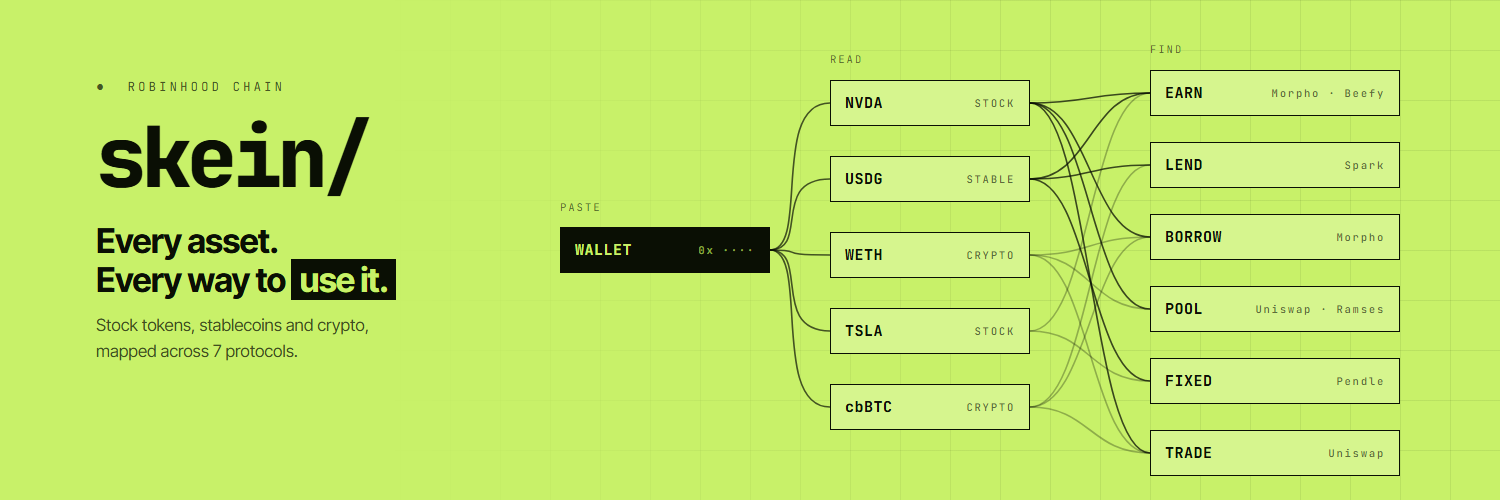
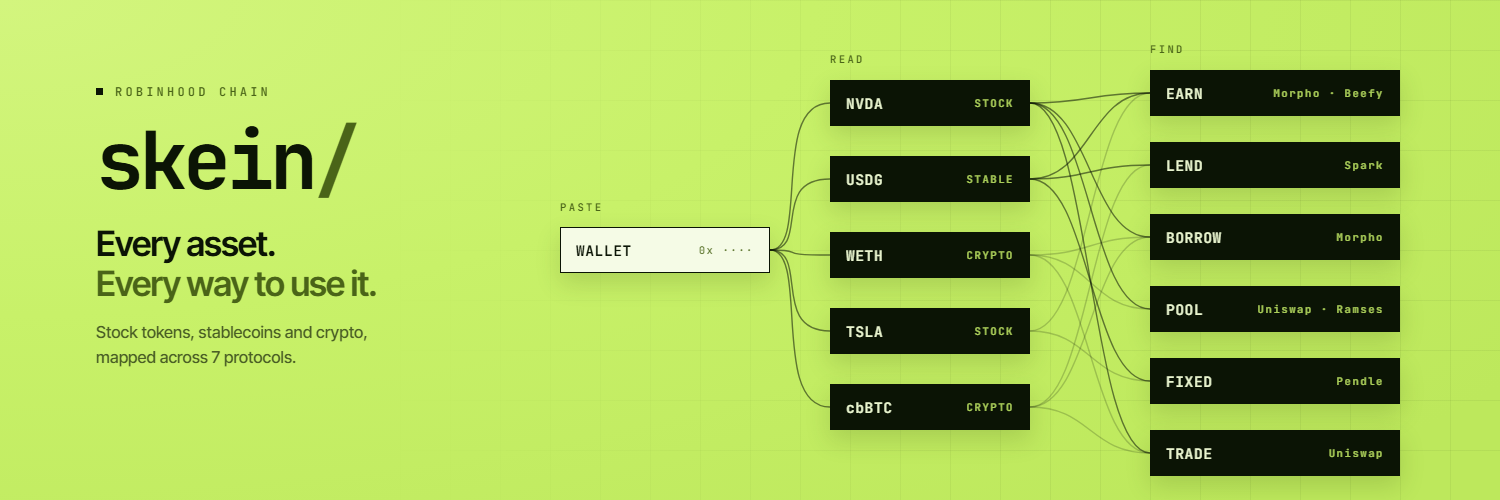
brand: softer lime X header (dark tiles, two tone headline, grayscale text, 2x export)

diff --git a/brand/twitter/header-map-lime.html b/brand/twitter/header-map-lime.html
@@ -6,19 +6,20 @@ html,body{overflow:hidden;background:#060706;color:#DFE4DC;font-family:I}
 .m{font-family:M} .l{color:#C8F169} .mu{color:#8D948A} .fa{color:#5A6158}
 .grid{position:absolute;inset:0;background-image:linear-gradient(#11150F 1px,transparent 1px),linear-gradient(90deg,#11150F 1px,transparent 1px);background-size:50px 50px}
 </style></head><body style='width:1500px;height:500px'>
-<div style="position:relative;width:1500px;height:500px;background:#C8F169;color:#0A0F04">
- <div style="position:absolute;inset:0;background-image:linear-gradient(#0A0F0412 1px,transparent 1px),linear-gradient(90deg,#0A0F0412 1px,transparent 1px);background-size:50px 50px;-webkit-mask:linear-gradient(90deg,transparent 25%,#000 70%)"></div>
- <svg width=1500 height=500 style="position:absolute;inset:0" fill=none stroke-width=1.6><path d="M770 250 C 810 250, 770 103, 830 103" stroke="#0A0F04" stroke-opacity=".7"/><path d="M770 250 C 810 250, 770 179, 830 179" stroke="#0A0F04" stroke-opacity=".7"/><path d="M770 250 C 810 250, 770 255, 830 255" stroke="#0A0F04" stroke-opacity=".7"/><path d="M770 250 C 810 250, 770 331, 830 331" stroke="#0A0F04" stroke-opacity=".7"/><path d="M770 250 C 810 250, 770 407, 830 407" stroke="#0A0F04" stroke-opacity=".7"/><path d="M1030 103 C 1090 103, 1090 93, 1150 93" stroke="#0A0F04" stroke-opacity="0.75"/><path d="M1030 103 C 1090 103, 1090 237, 1150 237" stroke="#0A0F04" stroke-opacity="0.75"/><path d="M1030 103 C 1090 103, 1090 309, 1150 309" stroke="#0A0F04" stroke-opacity="0.75"/><path d="M1030 179 C 1090 179, 1090 165, 1150 165" stroke="#0A0F04" stroke-opacity="0.75"/><path d="M1030 179 C 1090 179, 1090 93, 1150 93" stroke="#0A0F04" stroke-opacity="0.75"/><path d="M1030 179 C 1090 179, 1090 381, 1150 381" stroke="#0A0F04" stroke-opacity="0.75"/><path d="M1030 255 C 1090 255, 1090 309, 1150 309" stroke="#0A0F04" stroke-opacity="0.3"/><path d="M1030 255 C 1090 255, 1090 237, 1150 237" stroke="#0A0F04" stroke-opacity="0.3"/><path d="M1030 255 C 1090 255, 1090 453, 1150 453" stroke="#0A0F04" stroke-opacity="0.3"/><path d="M1030 331 C 1090 331, 1090 381, 1150 381" stroke="#0A0F04" stroke-opacity="0.3"/><path d="M1030 331 C 1090 331, 1090 93, 1150 93" stroke="#0A0F04" stroke-opacity="0.3"/><path d="M1030 407 C 1090 407, 1090 237, 1150 237" stroke="#0A0F04" stroke-opacity="0.3"/><path d="M1030 407 C 1090 407, 1090 165, 1150 165" stroke="#0A0F04" stroke-opacity="0.3"/><path d="M1030 407 C 1090 407, 1090 453, 1150 453" stroke="#0A0F04" stroke-opacity="0.3"/><path d="M1030 103 C 1090 103, 1090 453, 1150 453" stroke="#0A0F04" stroke-opacity="0.75"/></svg>
- <div style="position:absolute;left:96px;top:78px;width:440px">
-  <div class=m style="font-size:12.5px;letter-spacing:3px;color:#0A0F04b0">●&nbsp; ROBINHOOD CHAIN</div>
-  <div class=m style="font-size:84px;font-weight:800;letter-spacing:-5px;line-height:1;margin-top:20px">skein/</div>
-  <div style="font-size:34px;font-weight:700;letter-spacing:-.8px;line-height:1.15;margin-top:22px">Every asset.<br>Every way to <span style="background:#0A0F04;color:#C8F169;padding:0 8px">use it.</span></div>
-  <div style="font-size:17px;line-height:1.5;margin-top:14px;color:#0A0F04b8">Stock tokens, stablecoins and crypto,<br>mapped across 7 protocols.</div>
+<style>body{-webkit-font-smoothing:antialiased;text-rendering:geometricPrecision}</style>
+<div style="position:relative;width:1500px;height:500px;background:radial-gradient(120% 140% at 0% 0%,#D3F57E,#C8F169 45%,#BDE85C);color:#0B1405">
+ <div style="position:absolute;inset:0;background-image:linear-gradient(#0B14050d 1px,transparent 1px),linear-gradient(90deg,#0B14050d 1px,transparent 1px);background-size:50px 50px;-webkit-mask:linear-gradient(90deg,transparent 25%,#000 70%)"></div>
+ <svg width=1500 height=500 style="position:absolute;inset:0" fill=none stroke-width=1.4 stroke-linecap=round><path d="M770 250 C 810 250, 770 103, 830 103" stroke="#0B1405" stroke-opacity=".55"/><path d="M770 250 C 810 250, 770 179, 830 179" stroke="#0B1405" stroke-opacity=".55"/><path d="M770 250 C 810 250, 770 255, 830 255" stroke="#0B1405" stroke-opacity=".55"/><path d="M770 250 C 810 250, 770 331, 830 331" stroke="#0B1405" stroke-opacity=".55"/><path d="M770 250 C 810 250, 770 407, 830 407" stroke="#0B1405" stroke-opacity=".55"/><path d="M1030 103 C 1090 103, 1090 93, 1150 93" stroke="#0B1405" stroke-opacity="0.55"/><path d="M1030 103 C 1090 103, 1090 237, 1150 237" stroke="#0B1405" stroke-opacity="0.55"/><path d="M1030 103 C 1090 103, 1090 309, 1150 309" stroke="#0B1405" stroke-opacity="0.55"/><path d="M1030 179 C 1090 179, 1090 165, 1150 165" stroke="#0B1405" stroke-opacity="0.55"/><path d="M1030 179 C 1090 179, 1090 93, 1150 93" stroke="#0B1405" stroke-opacity="0.55"/><path d="M1030 179 C 1090 179, 1090 381, 1150 381" stroke="#0B1405" stroke-opacity="0.55"/><path d="M1030 255 C 1090 255, 1090 309, 1150 309" stroke="#0B1405" stroke-opacity="0.2"/><path d="M1030 255 C 1090 255, 1090 237, 1150 237" stroke="#0B1405" stroke-opacity="0.2"/><path d="M1030 255 C 1090 255, 1090 453, 1150 453" stroke="#0B1405" stroke-opacity="0.2"/><path d="M1030 331 C 1090 331, 1090 381, 1150 381" stroke="#0B1405" stroke-opacity="0.2"/><path d="M1030 331 C 1090 331, 1090 93, 1150 93" stroke="#0B1405" stroke-opacity="0.2"/><path d="M1030 407 C 1090 407, 1090 237, 1150 237" stroke="#0B1405" stroke-opacity="0.2"/><path d="M1030 407 C 1090 407, 1090 165, 1150 165" stroke="#0B1405" stroke-opacity="0.2"/><path d="M1030 407 C 1090 407, 1090 453, 1150 453" stroke="#0B1405" stroke-opacity="0.2"/><path d="M1030 103 C 1090 103, 1090 453, 1150 453" stroke="#0B1405" stroke-opacity="0.55"/></svg>
+ <div style="position:absolute;left:96px;top:84px;width:440px">
+  <div class=m style="font-size:12px;letter-spacing:3.2px;font-weight:500;color:#4A6418"><span style="display:inline-block;width:7px;height:7px;background:#0B1405;vertical-align:1px;margin-right:12px"></span>ROBINHOOD CHAIN</div>
+  <div class=m style="font-size:80px;font-weight:700;letter-spacing:-4.5px;line-height:1;margin-top:20px">skein<span style="color:#4A6418">/</span></div>
+  <div style="font-size:35px;font-weight:600;letter-spacing:-1.1px;line-height:1.14;margin-top:24px">Every asset.<br><span style="color:#4A6418">Every way to use it.</span></div>
+  <div style="font-size:16.5px;font-weight:500;line-height:1.55;margin-top:16px;color:#0B1405a8">Stock tokens, stablecoins and crypto,<br>mapped across 7 protocols.</div>
  </div>
- <div class=m style="position:absolute;left:560px;top:227px;width:210px;height:46px;display:flex;align-items:center;gap:10px;padding:0 14px;border:1.5px solid #0A0F04;background:#0A0F04;color:#C8F169;font-size:15px;font-weight:700;letter-spacing:.5px">WALLET<span style="flex:1"></span><span style="font-size:10.5px;letter-spacing:1.8px;font-weight:500;color:#C8F169b0">0x ····</span></div>
- <div class=m style="position:absolute;left:830px;top:80px;width:200px;height:46px;display:flex;align-items:center;gap:10px;padding:0 14px;border:1.5px solid #0A0F04;background:#D6F58E;color:#0A0F04;font-size:15px;font-weight:700;letter-spacing:.5px">NVDA<span style="flex:1"></span><span style="font-size:10.5px;letter-spacing:1.8px;font-weight:500;color:#0A0F0499">STOCK</span></div><div class=m style="position:absolute;left:830px;top:156px;width:200px;height:46px;display:flex;align-items:center;gap:10px;padding:0 14px;border:1.5px solid #0A0F04;background:#D6F58E;color:#0A0F04;font-size:15px;font-weight:700;letter-spacing:.5px">USDG<span style="flex:1"></span><span style="font-size:10.5px;letter-spacing:1.8px;font-weight:500;color:#0A0F0499">STABLE</span></div><div class=m style="position:absolute;left:830px;top:232px;width:200px;height:46px;display:flex;align-items:center;gap:10px;padding:0 14px;border:1.5px solid #0A0F04;background:#D6F58E;color:#0A0F04;font-size:15px;font-weight:700;letter-spacing:.5px">WETH<span style="flex:1"></span><span style="font-size:10.5px;letter-spacing:1.8px;font-weight:500;color:#0A0F0499">CRYPTO</span></div><div class=m style="position:absolute;left:830px;top:308px;width:200px;height:46px;display:flex;align-items:center;gap:10px;padding:0 14px;border:1.5px solid #0A0F04;background:#D6F58E;color:#0A0F04;font-size:15px;font-weight:700;letter-spacing:.5px">TSLA<span style="flex:1"></span><span style="font-size:10.5px;letter-spacing:1.8px;font-weight:500;color:#0A0F0499">STOCK</span></div><div class=m style="position:absolute;left:830px;top:384px;width:200px;height:46px;display:flex;align-items:center;gap:10px;padding:0 14px;border:1.5px solid #0A0F04;background:#D6F58E;color:#0A0F04;font-size:15px;font-weight:700;letter-spacing:.5px">cbBTC<span style="flex:1"></span><span style="font-size:10.5px;letter-spacing:1.8px;font-weight:500;color:#0A0F0499">CRYPTO</span></div>
- <div class=m style="position:absolute;left:1150px;top:70px;width:250px;height:46px;display:flex;align-items:center;gap:10px;padding:0 14px;border:1.5px solid #0A0F04;background:#D6F58E;color:#0A0F04;font-size:15px;font-weight:700;letter-spacing:.5px">EARN<span style="flex:1"></span><span style="font-size:10.5px;letter-spacing:1.8px;font-weight:500;color:#0A0F0499">Morpho · Beefy</span></div><div class=m style="position:absolute;left:1150px;top:142px;width:250px;height:46px;display:flex;align-items:center;gap:10px;padding:0 14px;border:1.5px solid #0A0F04;background:#D6F58E;color:#0A0F04;font-size:15px;font-weight:700;letter-spacing:.5px">LEND<span style="flex:1"></span><span style="font-size:10.5px;letter-spacing:1.8px;font-weight:500;color:#0A0F0499">Spark</span></div><div class=m style="position:absolute;left:1150px;top:214px;width:250px;height:46px;display:flex;align-items:center;gap:10px;padding:0 14px;border:1.5px solid #0A0F04;background:#D6F58E;color:#0A0F04;font-size:15px;font-weight:700;letter-spacing:.5px">BORROW<span style="flex:1"></span><span style="font-size:10.5px;letter-spacing:1.8px;font-weight:500;color:#0A0F0499">Morpho</span></div><div class=m style="position:absolute;left:1150px;top:286px;width:250px;height:46px;display:flex;align-items:center;gap:10px;padding:0 14px;border:1.5px solid #0A0F04;background:#D6F58E;color:#0A0F04;font-size:15px;font-weight:700;letter-spacing:.5px">POOL<span style="flex:1"></span><span style="font-size:10.5px;letter-spacing:1.8px;font-weight:500;color:#0A0F0499">Uniswap · Ramses</span></div><div class=m style="position:absolute;left:1150px;top:358px;width:250px;height:46px;display:flex;align-items:center;gap:10px;padding:0 14px;border:1.5px solid #0A0F04;background:#D6F58E;color:#0A0F04;font-size:15px;font-weight:700;letter-spacing:.5px">FIXED<span style="flex:1"></span><span style="font-size:10.5px;letter-spacing:1.8px;font-weight:500;color:#0A0F0499">Pendle</span></div><div class=m style="position:absolute;left:1150px;top:430px;width:250px;height:46px;display:flex;align-items:center;gap:10px;padding:0 14px;border:1.5px solid #0A0F04;background:#D6F58E;color:#0A0F04;font-size:15px;font-weight:700;letter-spacing:.5px">TRADE<span style="flex:1"></span><span style="font-size:10.5px;letter-spacing:1.8px;font-weight:500;color:#0A0F0499">Uniswap</span></div>
- <div class=m style="position:absolute;left:560px;top:200px;font-size:10.5px;letter-spacing:2px;color:#0A0F0499">PASTE</div>
- <div class=m style="position:absolute;left:830px;top:52px;font-size:10.5px;letter-spacing:2px;color:#0A0F0499">READ</div>
- <div class=m style="position:absolute;left:1150px;top:42px;font-size:10.5px;letter-spacing:2px;color:#0A0F0499">FIND</div>
+ <div class=m style="position:absolute;left:560px;top:227px;width:210px;height:46px;display:flex;align-items:center;gap:10px;padding:0 15px;border:1.5px solid #0B1405;background:#F5FBE6;color:#0B1405;font-size:14.5px;font-weight:600;letter-spacing:.6px;box-shadow:0 10px 24px #3A4D0F2e">WALLET<span style="flex:1"></span><span style="font-size:10.5px;letter-spacing:1.6px;font-weight:500;color:#4A6418;opacity:.85">0x ····</span></div>
+ <div class=m style="position:absolute;left:830px;top:80px;width:200px;height:46px;display:flex;align-items:center;gap:10px;padding:0 15px;border:1.5px solid #0B1405;background:#0B1405;color:#E9F5CF;font-size:14.5px;font-weight:600;letter-spacing:.6px;box-shadow:0 10px 24px #3A4D0F2e">NVDA<span style="flex:1"></span><span style="font-size:10.5px;letter-spacing:1.6px;font-weight:500;color:#C8F169;opacity:.85">STOCK</span></div><div class=m style="position:absolute;left:830px;top:156px;width:200px;height:46px;display:flex;align-items:center;gap:10px;padding:0 15px;border:1.5px solid #0B1405;background:#0B1405;color:#E9F5CF;font-size:14.5px;font-weight:600;letter-spacing:.6px;box-shadow:0 10px 24px #3A4D0F2e">USDG<span style="flex:1"></span><span style="font-size:10.5px;letter-spacing:1.6px;font-weight:500;color:#C8F169;opacity:.85">STABLE</span></div><div class=m style="position:absolute;left:830px;top:232px;width:200px;height:46px;display:flex;align-items:center;gap:10px;padding:0 15px;border:1.5px solid #0B1405;background:#0B1405;color:#E9F5CF;font-size:14.5px;font-weight:600;letter-spacing:.6px;box-shadow:0 10px 24px #3A4D0F2e">WETH<span style="flex:1"></span><span style="font-size:10.5px;letter-spacing:1.6px;font-weight:500;color:#C8F169;opacity:.85">CRYPTO</span></div><div class=m style="position:absolute;left:830px;top:308px;width:200px;height:46px;display:flex;align-items:center;gap:10px;padding:0 15px;border:1.5px solid #0B1405;background:#0B1405;color:#E9F5CF;font-size:14.5px;font-weight:600;letter-spacing:.6px;box-shadow:0 10px 24px #3A4D0F2e">TSLA<span style="flex:1"></span><span style="font-size:10.5px;letter-spacing:1.6px;font-weight:500;color:#C8F169;opacity:.85">STOCK</span></div><div class=m style="position:absolute;left:830px;top:384px;width:200px;height:46px;display:flex;align-items:center;gap:10px;padding:0 15px;border:1.5px solid #0B1405;background:#0B1405;color:#E9F5CF;font-size:14.5px;font-weight:600;letter-spacing:.6px;box-shadow:0 10px 24px #3A4D0F2e">cbBTC<span style="flex:1"></span><span style="font-size:10.5px;letter-spacing:1.6px;font-weight:500;color:#C8F169;opacity:.85">CRYPTO</span></div>
+ <div class=m style="position:absolute;left:1150px;top:70px;width:250px;height:46px;display:flex;align-items:center;gap:10px;padding:0 15px;border:1.5px solid #0B1405;background:#0B1405;color:#E9F5CF;font-size:14.5px;font-weight:600;letter-spacing:.6px;box-shadow:0 10px 24px #3A4D0F2e">EARN<span style="flex:1"></span><span style="font-size:10.5px;letter-spacing:1.6px;font-weight:500;color:#C8F169;opacity:.85">Morpho · Beefy</span></div><div class=m style="position:absolute;left:1150px;top:142px;width:250px;height:46px;display:flex;align-items:center;gap:10px;padding:0 15px;border:1.5px solid #0B1405;background:#0B1405;color:#E9F5CF;font-size:14.5px;font-weight:600;letter-spacing:.6px;box-shadow:0 10px 24px #3A4D0F2e">LEND<span style="flex:1"></span><span style="font-size:10.5px;letter-spacing:1.6px;font-weight:500;color:#C8F169;opacity:.85">Spark</span></div><div class=m style="position:absolute;left:1150px;top:214px;width:250px;height:46px;display:flex;align-items:center;gap:10px;padding:0 15px;border:1.5px solid #0B1405;background:#0B1405;color:#E9F5CF;font-size:14.5px;font-weight:600;letter-spacing:.6px;box-shadow:0 10px 24px #3A4D0F2e">BORROW<span style="flex:1"></span><span style="font-size:10.5px;letter-spacing:1.6px;font-weight:500;color:#C8F169;opacity:.85">Morpho</span></div><div class=m style="position:absolute;left:1150px;top:286px;width:250px;height:46px;display:flex;align-items:center;gap:10px;padding:0 15px;border:1.5px solid #0B1405;background:#0B1405;color:#E9F5CF;font-size:14.5px;font-weight:600;letter-spacing:.6px;box-shadow:0 10px 24px #3A4D0F2e">POOL<span style="flex:1"></span><span style="font-size:10.5px;letter-spacing:1.6px;font-weight:500;color:#C8F169;opacity:.85">Uniswap · Ramses</span></div><div class=m style="position:absolute;left:1150px;top:358px;width:250px;height:46px;display:flex;align-items:center;gap:10px;padding:0 15px;border:1.5px solid #0B1405;background:#0B1405;color:#E9F5CF;font-size:14.5px;font-weight:600;letter-spacing:.6px;box-shadow:0 10px 24px #3A4D0F2e">FIXED<span style="flex:1"></span><span style="font-size:10.5px;letter-spacing:1.6px;font-weight:500;color:#C8F169;opacity:.85">Pendle</span></div><div class=m style="position:absolute;left:1150px;top:430px;width:250px;height:46px;display:flex;align-items:center;gap:10px;padding:0 15px;border:1.5px solid #0B1405;background:#0B1405;color:#E9F5CF;font-size:14.5px;font-weight:600;letter-spacing:.6px;box-shadow:0 10px 24px #3A4D0F2e">TRADE<span style="flex:1"></span><span style="font-size:10.5px;letter-spacing:1.6px;font-weight:500;color:#C8F169;opacity:.85">Uniswap</span></div>
+ <div class=m style="position:absolute;left:560px;top:200px;font-size:10.5px;letter-spacing:2.4px;font-weight:500;color:#4A6418">PASTE</div>
+ <div class=m style="position:absolute;left:830px;top:52px;font-size:10.5px;letter-spacing:2.4px;font-weight:500;color:#4A6418">READ</div>
+ <div class=m style="position:absolute;left:1150px;top:42px;font-size:10.5px;letter-spacing:2.4px;font-weight:500;color:#4A6418">FIND</div>
 </div></body></html>

diff --git a/brand/twitter/gen.py b/brand/twitter/gen.py
@@ -101,34 +101,36 @@ pages["header-map"] = (1500, 500, BASE + f"""
 </div>""")
 
 
-# Header B on lime: same map, on the profile's lime.
-D = "#0A0F04"
+# Header B on lime: same map on the profile's lime. Dark tiles carry the text; the headline is two tones.
+D, INK, OLIVE, PAPER = "#0B1405", "#E9F5CF", "#4A6418", "#F5FBE6"
 def lnode(x,y,w,txt,sub="",hi=False):
-    return f"""<div class=m style="position:absolute;left:{x}px;top:{y}px;width:{w}px;height:46px;display:flex;align-items:center;gap:10px;padding:0 14px;border:1.5px solid {D};background:{D if hi else '#D6F58E'};color:{'#C8F169' if hi else D};font-size:15px;font-weight:700;letter-spacing:.5px">{txt}<span style="flex:1"></span><span style="font-size:10.5px;letter-spacing:1.8px;font-weight:500;color:{'#C8F169b0' if hi else D+'99'}">{sub}</span></div>"""
+    bg, fg, sc, bd = (PAPER, D, OLIVE, D) if hi else (D, INK, "#C8F169", D)
+    return f"""<div class=m style="position:absolute;left:{x}px;top:{y}px;width:{w}px;height:46px;display:flex;align-items:center;gap:10px;padding:0 15px;border:1.5px solid {bd};background:{bg};color:{fg};font-size:14.5px;font-weight:600;letter-spacing:.6px;box-shadow:0 10px 24px #3A4D0F2e">{txt}<span style="flex:1"></span><span style="font-size:10.5px;letter-spacing:1.6px;font-weight:500;color:{sc};opacity:.85">{sub}</span></div>"""
 lpaths = []
 for _,_,y in assets:
-    lpaths.append(f'<path d="M{W_X+210} {wy} C {W_X+250} {wy}, {A_X-60} {y+23}, {A_X} {y+23}" stroke="{D}" stroke-opacity=".7"/>')
-for a,o in links:
-    y1 = assets[a][2]+23; y2 = opps[o][2]+23
-    lpaths.append(f'<path d="M{A_X+200} {y1} C {A_X+260} {y1}, {O_X-60} {y2}, {O_X} {y2}" stroke="{D}" stroke-opacity="{0.75 if a in (0,1) else 0.3}"/>')
+    lpaths.append(f'<path d="M{W_X+210} {wy} C {W_X+250} {wy}, {A_X-60} {y+23}, {A_X} {y+23}" stroke="{D}" stroke-opacity=".55"/>')
+for a_,o in links:
+    y1 = assets[a_][2]+23; y2 = opps[o][2]+23
+    lpaths.append(f'<path d="M{A_X+200} {y1} C {A_X+260} {y1}, {O_X-60} {y2}, {O_X} {y2}" stroke="{D}" stroke-opacity="{0.55 if a_ in (0,1) else 0.2}"/>')
 pages["header-map-lime"] = (1500, 500, BASE + f"""
-<div style="position:relative;width:1500px;height:500px;background:#C8F169;color:{D}">
- <div style="position:absolute;inset:0;background-image:linear-gradient({D}12 1px,transparent 1px),linear-gradient(90deg,{D}12 1px,transparent 1px);background-size:50px 50px;-webkit-mask:linear-gradient(90deg,transparent 25%,#000 70%)"></div>
- <svg width=1500 height=500 style="position:absolute;inset:0" fill=none stroke-width=1.6>{''.join(lpaths)}</svg>
- <div style="position:absolute;left:96px;top:78px;width:440px">
-  <div class=m style="font-size:12.5px;letter-spacing:3px;color:{D}b0">●&nbsp; ROBINHOOD CHAIN</div>
-  <div class=m style="font-size:84px;font-weight:800;letter-spacing:-5px;line-height:1;margin-top:20px">skein/</div>
-  <div style="font-size:34px;font-weight:700;letter-spacing:-.8px;line-height:1.15;margin-top:22px">Every asset.<br>Every way to <span style="background:{D};color:#C8F169;padding:0 8px">use it.</span></div>
-  <div style="font-size:17px;line-height:1.5;margin-top:14px;color:{D}b8">Stock tokens, stablecoins and crypto,<br>mapped across 7 protocols.</div>
+<style>body{{-webkit-font-smoothing:antialiased;text-rendering:geometricPrecision}}</style>
+<div style="position:relative;width:1500px;height:500px;background:radial-gradient(120% 140% at 0% 0%,#D3F57E,#C8F169 45%,#BDE85C);color:{D}">
+ <div style="position:absolute;inset:0;background-image:linear-gradient({D}0d 1px,transparent 1px),linear-gradient(90deg,{D}0d 1px,transparent 1px);background-size:50px 50px;-webkit-mask:linear-gradient(90deg,transparent 25%,#000 70%)"></div>
+ <svg width=1500 height=500 style="position:absolute;inset:0" fill=none stroke-width=1.4 stroke-linecap=round>{''.join(lpaths)}</svg>
+ <div style="position:absolute;left:96px;top:84px;width:440px">
+  <div class=m style="font-size:12px;letter-spacing:3.2px;font-weight:500;color:{OLIVE}"><span style="display:inline-block;width:7px;height:7px;background:{D};vertical-align:1px;margin-right:12px"></span>ROBINHOOD CHAIN</div>
+  <div class=m style="font-size:80px;font-weight:700;letter-spacing:-4.5px;line-height:1;margin-top:20px">skein<span style="color:{OLIVE}">/</span></div>
+  <div style="font-size:35px;font-weight:600;letter-spacing:-1.1px;line-height:1.14;margin-top:24px">Every asset.<br><span style="color:{OLIVE}">Every way to use it.</span></div>
+  <div style="font-size:16.5px;font-weight:500;line-height:1.55;margin-top:16px;color:{D}a8">Stock tokens, stablecoins and crypto,<br>mapped across 7 protocols.</div>
  </div>
  {lnode(W_X,227,210,"WALLET","0x ····",True)}
  {''.join(lnode(A_X,y,200,s_,k) for s_,k,y in assets)}
  {''.join(lnode(O_X,y,250,s_,p) for s_,p,y in opps)}
- <div class=m style="position:absolute;left:{W_X}px;top:200px;font-size:10.5px;letter-spacing:2px;color:{D}99">PASTE</div>
- <div class=m style="position:absolute;left:{A_X}px;top:52px;font-size:10.5px;letter-spacing:2px;color:{D}99">READ</div>
- <div class=m style="position:absolute;left:{O_X}px;top:42px;font-size:10.5px;letter-spacing:2px;color:{D}99">FIND</div>
+ <div class=m style="position:absolute;left:{W_X}px;top:200px;font-size:10.5px;letter-spacing:2.4px;font-weight:500;color:{OLIVE}">PASTE</div>
+ <div class=m style="position:absolute;left:{A_X}px;top:52px;font-size:10.5px;letter-spacing:2.4px;font-weight:500;color:{OLIVE}">READ</div>
+ <div class=m style="position:absolute;left:{O_X}px;top:42px;font-size:10.5px;letter-spacing:2.4px;font-weight:500;color:{OLIVE}">FIND</div>
 </div>""")
 
 for name, (w, h, html) in pages.items():
-    (pathlib.Path(__file__).parent / f"{name}.html").write_text(f"<!doctype html><html><head>{html.split('</style>')[0]}</style></head><body style='width:{w}px;height:{h}px'>{html.split('</style>')[1]}</body></html>", encoding="utf-8")
+    (pathlib.Path(__file__).parent / f"{name}.html").write_text(f"<!doctype html><html><head>{html.split('</style>',1)[0]}</style></head><body style='width:{w}px;height:{h}px'>{html.split('</style>',1)[1]}</body></html>", encoding="utf-8")
     print(name, w, h)
